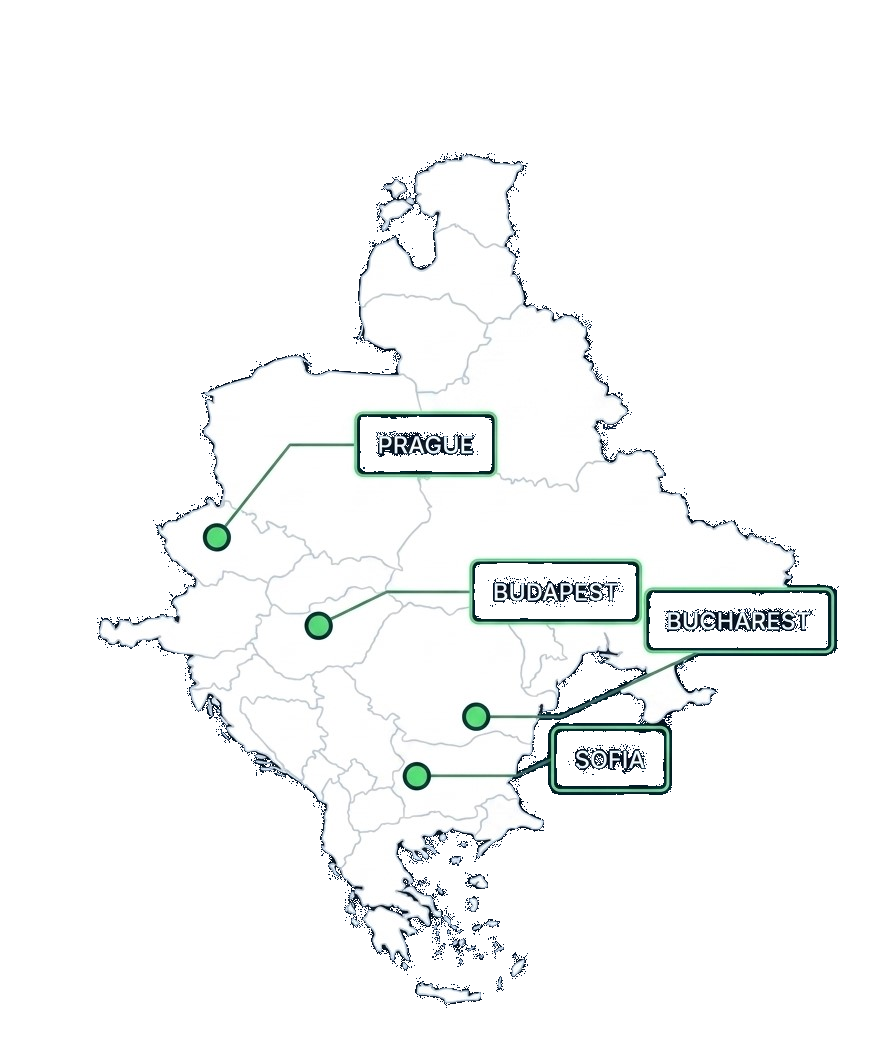
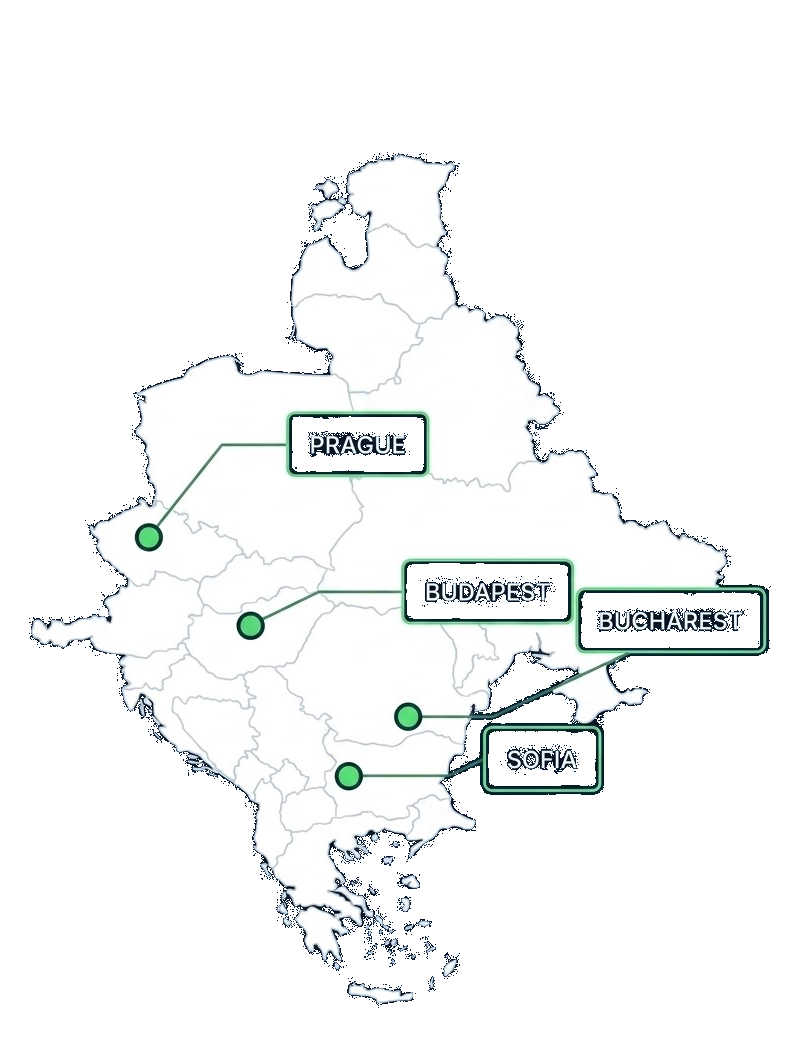
Mobile Version fixes

Changed region(s): [[0.0309, 0.1249, 0.9592, 0.9678], [0.1547, 0.3746, 0.1856, 0.4371], [0.0928, 0.4995, 0.1238, 0.5307]]

diff --git a/app/globals.css b/app/globals.css
@@ -27,12 +27,10 @@ html,body{overflow-x:hidden;width:100%}
 .journey-grid p{font-size:1.06rem;line-height:1.75;color:rgba(255,255,255,.74);max-width:650px}
 .journey-grid h2{font-size:clamp(1.8rem,3.2vw,3.4rem)}
 .map-card {
-  height: 560px;
   position: relative;
   border: none;
   background: none;
-  overflow: visible;
-  transform: translateX(-100px);
+  overflow: hidden;
 }
 .nav a.active{opacity:1}
 .nav a.active:after{right:0}
@@ -200,29 +198,26 @@ body{-webkit-font-smoothing:antialiased;text-rendering:optimizeLegibility}
 .sponsor-logo-grid{display:grid;grid-template-columns:repeat(4,minmax(0,1fr));gap:16px}
 .sponsor-logo-grid-gold{grid-template-columns:minmax(220px,320px)}
 .sponsor-logo-grid>div{
-  min-height: 150px;
-  background: #fff;
-  border: 1px solid rgba(10,35,70,.1);
-  display: flex;
-  align-items: center;
-  justify-content: center;
-  padding: 16px;                      /* Balanced padding for a cleaner border frame */
+  min-height:210px;
+  background:#fff;
+  border:1px solid rgba(10,35,70,.1);
+  display:flex;
+  align-items:center;
+  justify-content:center;
+  padding:20px;
 }
-.sponsor-logo-grid img.logo-larger{
-  width: 100% !important;
-  height: 105px !important;
-}
+.sponsor-logo-grid img.logo-larger,
 .sponsor-logo-grid img{
-  width: 90% !important;
-  height: 90px !important;
-  object-fit: contain !important;
+  width:95% !important;
+  height:150px !important;
+  object-fit:contain !important;
 }
 
 .summit-logo-grid{grid-template-columns:repeat(3,minmax(0,1fr))}
 .summit-sponsors 
 .sponsor-cta{margin-top:28px}
 @media(max-width:950px){.speaker-card-grid{grid-template-columns:repeat(2,minmax(0,1fr))}.sponsor-logo-grid,.summit-logo-grid{grid-template-columns:repeat(2,minmax(0,1fr))}}
-@media(max-width:560px){.speaker-card-grid{gap:12px}.speaker-card-copy{padding:13px}.speaker-card-copy h3{font-size:1rem}.speaker-card-copy p{font-size:.8rem}.speaker-card-copy strong{font-size:.75rem}.testimonial-slider{padding:25px 22px}.testimonial-slider blockquote p{font-size:1.05rem}.sponsor-logo-grid,.summit-logo-grid{grid-template-columns:1fr 1fr}.sponsor-logo-grid>div{min-height:100px;padding:10px}.sponsor-logo-grid img{height:70px}}
+@media(max-width:560px){.speaker-card-grid{gap:12px}.speaker-card-copy{padding:13px}.speaker-card-copy h3{font-size:1rem}.speaker-card-copy p{font-size:.8rem}.speaker-card-copy strong{font-size:.75rem}.testimonial-slider{padding:25px 22px}.testimonial-slider blockquote p{font-size:1.05rem}.sponsor-logo-grid,.summit-logo-grid{grid-template-columns:1fr 1fr}.sponsor-logo-grid>div{min-height:140px;padding:12px}.sponsor-logo-grid img,.sponsor-logo-grid img.logo-larger{width:95% !important;height:105px !important;object-fit:contain !important}}
 
 /* Phase 18 — Insights / Partners / Contact completion */
 .insights-hero{min-height:610px;background:radial-gradient(circle at 80% 20%,rgba(53,185,241,.13),transparent 30%),linear-gradient(135deg,#04162e 0%,#071b3a 68%,#0a3155 100%);color:#fff;position:relative;overflow:hidden}.insights-hero:after{content:"";position:absolute;width:480px;height:480px;border:1px solid rgba(83,239,122,.12);border-radius:50%;right:-150px;bottom:-220px}.insights-hero-content{position:relative;z-index:2;padding-top:205px;padding-bottom:95px}.insights-hero-content h1{max-width:900px}.insights-hero-content>p:not(.eyebrow){max-width:750px;font-size:1.16rem;line-height:1.7;color:rgba(255,255,255,.78)}.insights-explore .shell>h2{max-width:940px}.insight-filters{display:flex;gap:10px;flex-wrap:wrap;margin:42px 0 28px;border-bottom:1px solid var(--line);padding-bottom:16px}.insight-filters button{border:0;background:transparent;padding:8px 12px;font-weight:800;font-size:.78rem;letter-spacing:.1em;color:#65758a;cursor:pointer}.insight-filters button.active{color:#075bde;border-bottom:2px solid #075bde}.editorial-feature{display:grid;grid-template-columns:1.15fr .85fr;background:#f4f7fa;min-height:500px}.editorial-image{position:relative;min-height:500px;overflow:hidden}.editorial-copy{padding:55px;display:flex;flex-direction:column;justify-content:center}.editorial-copy>span,.editorial-grid>article>span{font-size:.72rem;letter-spacing:.12em;text-transform:uppercase;font-weight:900;color:#2676a5}.editorial-copy h3{font-size:clamp(2rem,3.2vw,3.3rem);line-height:1.05;margin:20px 0}.editorial-copy p,.editorial-grid p{color:var(--muted);line-height:1.6}.editorial-copy a,.editorial-grid a{font-weight:900;color:#145d98}.editorial-grid{display:grid;grid-template-columns:repeat(3,1fr);gap:18px;margin-top:22px}.editorial-grid>article{border:1px solid var(--line);background:#fff;padding:0 24px 28px;transition:transform .2s ease,box-shadow .2s ease}.editorial-grid>article:hover{transform:translateY(-4px);box-shadow:0 18px 42px rgba(7,27,53,.08)}.editorial-thumb{height:220px;position:relative;margin:0 -24px 24px;overflow:hidden}.editorial-grid h3{font-size:1.35rem;margin:12px 0}.load-more{text-align:center;margin-top:34px}.load-more button,.partner-expand button{border:1px solid #173f68;background:#fff;color:#0b315a;padding:14px 21px;font-weight:900;cursor:pointer}.insights-newsletter{background:linear-gradient(135deg,#dff5fb,#e7f7f0);padding:90px 0}.newsletter-layout{display:grid;grid-template-columns:1fr .95fr;gap:90px;align-items:center}.newsletter-layout p{color:#506174;line-height:1.65;max-width:660px}.newsletter-form>div{display:flex}.newsletter-form input{flex:1;min-width:0;padding:18px;border:1px solid #9fc7d2;background:#fff}.newsletter-form button{padding:18px 22px;border:0;background:#075bde;color:#fff;font-weight:900}.newsletter-form small{display:block;color:#67798b;line-height:1.5;margin-top:12px}
@@ -293,7 +288,18 @@ body{overflow-x:hidden}.menu-open{overflow:hidden}.premium-reveal{opacity:0;tran
 .mobile-menu-toggle{display:none;position:relative;z-index:102;border:1px solid rgba(255,255,255,.3);background:rgba(255,255,255,.05);width:48px;height:48px;border-radius:50%;align-items:center;justify-content:center;padding:0;cursor:pointer}.mobile-menu-toggle span{position:absolute;width:20px;height:1.5px;background:#fff;transition:transform .3s var(--ease-premium),top .3s}.mobile-menu-toggle span:first-child{top:19px}.mobile-menu-toggle span:last-child{top:27px}.menu-is-open .mobile-menu-toggle span:first-child{top:23px;transform:rotate(45deg)}.menu-is-open .mobile-menu-toggle span:last-child{top:23px;transform:rotate(-45deg)}
 .mobile-nav-panel{display:none}
 @media(max-width:1050px){
-  .site-header{grid-template-columns:1fr auto auto}
+  .site-header{
+    grid-template-columns:1fr auto auto;
+    z-index:101;
+  }
+
+  .site-header.menu-is-open{
+    background:transparent;
+  }
+
+  .mobile-menu-toggle{
+    z-index:102;
+  }
   .desktop-nav{display:none}
   .mobile-menu-toggle{display:flex}
   .mobile-nav-panel{
@@ -567,4 +573,11 @@ body{overflow-x:hidden}.menu-open{overflow:hidden}.premium-reveal{opacity:0;tran
 @media(max-width:720px){
   .journey-grid .map-card{height:380px}
   .partnership-form>section h2,.premium-registration>section h2{font-size:clamp(1.85rem,8.8vw,2.5rem)!important}
+}
+/* Summit speaker note — prevent mobile overlap */
+@media (max-width: 720px) {
+  .summit-speaker-note {
+    margin-top: 24px;
+    margin-bottom: 36px;
+  }
 }

diff --git a/app/partners/page.tsx b/app/partners/page.tsx
@@ -20,9 +20,9 @@ export default function Partners(){return <main className="inner-page partners-p
   </section>
 
   <section className="section-light" id="partnership-options"><div className="shell"><p className="eyebrow dark">Beyond Our Flagship Events</p><h2>Different Formats for Different Objectives.</h2><p className="section-intro-copy">Banking CEE partnerships extend beyond the flagship events, creating opportunities for more targeted engagement with the regional banking community.</p><div className="partner-format-list">
-    <article><div className="partner-format-copy"><span>01 — FLAGSHIP EVENTS</span><h3>Banking CEE Expo &amp; Digital Banking CEE Summit</h3><ul><li>Thought leadership and speaking opportunities</li><li>Exhibition and brand visibility</li><li>1:1 meetings and networking</li><li>Regional engagement across the Banking CEE community</li></ul><p><strong>Great for:</strong> organisations looking for broader visibility, thought leadership and access to banking decision-makers across CEE.</p><a href="#flagship">Explore Flagship Events →</a></div><div className="partner-format-image"><Image src="/images/partner-event.webp" alt="Flagship event partnership" fill className="cover"/></div></article>
+    <article><div className="partner-format-copy"><span>01 — FLAGSHIP EVENTS</span><h3>Banking CEE Expo &amp; Digital Banking CEE Summit</h3><ul><li>Thought leadership and speaking opportunities</li><li>Exhibition and brand visibility</li><li>1:1 meetings and networking</li><li>Regional engagement across the Banking CEE community</li></ul><p><strong>Great for:</strong> organisations looking for broader visibility, thought leadership and access to banking decision-makers across CEE.</p><a href="#flagship">Explore Flagship Events →</a></div><div className="partner-format-image"><Image src="/images/partner-events1.webp" alt="Flagship event partnership" fill className="cover"/></div></article>
     <article><div className="partner-format-copy"><span>02 — TAILORED EVENTS</span><h3>Your Audience. Your Topic. Your Event.</h3><ul><li>20–30 pre-qualified industry attendees</li><li>Premium dinner or roundtable formats</li><li>Dedicated topic and audience</li><li>Direct engagement in a focused environment</li></ul><p><strong>Great for:</strong> organisations looking for high-touch engagement with selected decision-makers around a specific topic, market or business objective.</p><a href="/partnership-enquiry?interest=tailored&source=partners-formats">Explore Tailored Events →</a></div><div className="partner-format-image"><Image src="/images/partner-tailored-event.webp" alt="Tailored Banking CEE event" fill className="cover"/></div></article>
-    <article><div className="partner-format-copy"><span>03 — WEBINARS</span><h3>Take the Conversation Online.</h3><ul><li>Targeted topic and audience</li><li>Banking and industry perspectives</li><li>Interactive online discussion</li><li>Regional reach beyond physical events</li></ul><p><strong>Great for:</strong> organisations looking to showcase expertise, introduce new ideas or build thought leadership around a specific banking topic.</p><a href="/partnership-enquiry?interest=tailored&source=partners-formats">Explore Webinars →</a></div><div className="partner-format-image"><Image src="/images/partner-webinar.webp" alt="Banking CEE thought leadership" fill className="cover"/></div></article>
+    <article><div className="partner-format-copy"><span>03 — WEBINARS</span><h3>Take the Conversation Online.</h3><ul><li>Targeted topic and audience</li><li>Banking and industry perspectives</li><li>Interactive online discussion</li><li>Regional reach beyond physical events</li></ul><p><strong>Great for:</strong> organisations looking to showcase expertise, introduce new ideas or build thought leadership around a specific banking topic.</p><a href="/partnership-enquiry?interest=tailored&source=partners-formats">Explore Webinars →</a></div><div className="partner-format-image"><Image src="/images/partner-webinar1.webp" alt="Banking CEE thought leadership" fill className="cover"/></div></article>
   </div></div></section>
 
   <section className="section-white technology-proof"><div className="shell"><div className="partner-intro"><div><p className="eyebrow dark">Technology Partners Across CEE</p><h2>Trusted by Technology Companies Across the Banking CEE Network.</h2></div><p>Our partner community includes established international technology providers and specialist firms that have engaged with Banking CEE through previous events and partnership formats.</p></div><div className="trusted-partners"><PartnerLogoGrid/></div></div></section>

diff --git a/app/api/newsletter/route.ts b/app/api/newsletter/route.ts
@@ -1,7 +1,59 @@
-import {NextResponse} from 'next/server';
-import {supabase} from '../../../lib/supabase';
-export const runtime='nodejs';
-export async function POST(req:Request){try{const b=await req.json();const email=String(b.email||'').trim().toLowerCase();if(!/^\S+@\S+\.\S+$/.test(email))return NextResponse.json({error:'Please enter a valid email address.'},{status:400});if(b.consent!=='accepted')return NextResponse.json({error:'Please confirm that you would like to receive Banking CEE communications.'},{status:400});const payload={form_type:'newsletter_signup',business_email:email,first_name:b.firstName?String(b.firstName).trim():null,source:b.source||'website',source_page:b.sourcePage||'/insights',utm_source:b.utmSource||null,utm_medium:b.utmMedium||null,utm_campaign:b.utmCampaign||null,referrer:b.referrer||null,consent_marketing:true,consent_timestamp:new Date().toISOString(),submitted_at:new Date().toISOString()};
- // Preferred capture boundary: persist in Supabase first, then let Make/Airtable/Zoho own nurture.
- const table=process.env.NEWSLETTER_TABLE||'newsletter_signups';const {error}=await supabase.from(table).insert(payload);if(error){if(process.env.MAKE_NEWSLETTER_WEBHOOK_URL){const hook=await fetch(process.env.MAKE_NEWSLETTER_WEBHOOK_URL,{method:'POST',headers:{'Content-Type':'application/json'},body:JSON.stringify(payload)});if(!hook.ok)throw new Error(`Newsletter capture failed: ${error.message}; Make returned ${hook.status}`)}else throw error}else if(process.env.MAKE_NEWSLETTER_WEBHOOK_URL){await fetch(process.env.MAKE_NEWSLETTER_WEBHOOK_URL,{method:'POST',headers:{'Content-Type':'application/json'},body:JSON.stringify(payload)}).catch(()=>undefined)}
- return NextResponse.json({ok:true,message:'You are now subscribed to Banking CEE updates.'})}catch(e){console.error(e);return NextResponse.json({error:'We could not subscribe you right now. Please try again.'},{status:500})}}
+import { NextResponse } from 'next/server';
+import { supabase } from '../../../lib/supabase';
+
+export const runtime = 'nodejs';
+
+export async function POST(req: Request) {
+  try {
+    const body = await req.json();
+
+    const email = String(body.email || '')
+      .trim()
+      .toLowerCase();
+
+    if (!/^\S+@\S+\.\S+$/.test(email)) {
+      return NextResponse.json(
+        { error: 'Please enter a valid email address.' },
+        { status: 400 }
+      );
+    }
+
+    if (body.consent !== 'accepted') {
+      return NextResponse.json(
+        {
+          error:
+            'Please confirm that you would like to receive Banking CEE communications.',
+        },
+        { status: 400 }
+      );
+    }
+
+    const { error } = await supabase
+      .from('subscriptions')
+      .upsert(
+        { email },
+        { onConflict: 'email' }
+      );
+
+    if (error) {
+      console.error('Newsletter subscription error:', error);
+
+      return NextResponse.json(
+        { error: 'We could not subscribe you right now. Please try again.' },
+        { status: 500 }
+      );
+    }
+
+    return NextResponse.json({
+      ok: true,
+      message: 'You are now subscribed to Banking CEE updates.',
+    });
+  } catch (error) {
+    console.error(error);
+
+    return NextResponse.json(
+      { error: 'We could not subscribe you right now. Please try again.' },
+      { status: 500 }
+    );
+  }
+}

diff --git a/app/summit/page.tsx b/app/summit/page.tsx
@@ -130,12 +130,12 @@ export default async function SummitPage() {
           <p className="sponsor-history-note">2026 Sponsors</p>
           <p className="sponsor-tier-label">Silver Sponsors</p>
           <div className="sponsor-logo-grid summit-logo-grid">
-            <div><img src={summitLogos[8243]} alt="Evrotrust" width={240} height={140} /></div>
-            <div><img src={summitLogos[8878]} alt="ERI" width={240} height={140} /></div>
-            <div><img src={summitLogos[2050]} alt="Salesforce" width={240} height={140} /></div>
-            <div><img src={summitLogos[7356]} alt="Authologic" width={240} height={140} /></div>
-            <div><img src={summitLogos[8127]} alt="fme" width={240} height={140} /></div>
-            <div><img src={summitLogos[823]} alt="OneSpan" width={240} height={140} /></div>
+            <div><img src={summitLogos[8243]} alt="Evrotrust" width={300} height={170} /></div>
+            <div><img src={summitLogos[8878]} alt="ERI" width={300} height={170} /></div>
+            <div><img src={summitLogos[2050]} alt="Salesforce" width={300} height={170} /></div>
+            <div><img src={summitLogos[7356]} alt="Authologic" width={300} height={170} /></div>
+            <div><img src={summitLogos[8127]} alt="fme" width={300} height={170} /></div>
+            <div><img src={summitLogos[823]} alt="OneSpan" width={300} height={170} /></div>
           </div>
           <div className="sponsor-cta"><a className="btn summit-dark-btn" href="/partnership-enquiry?event=summit-2027&source=summit-sponsors">Explore Partnership Opportunities</a></div>
         </div>

diff --git a/app/expo/page.tsx b/app/expo/page.tsx
@@ -178,8 +178,8 @@ export default async function ExpoPage() {
                         <img
                           src={sponsor.logo}
                           alt={sponsor.company_name}
-                          width={isGold ? 300 : 240}
-                          height={isGold ? 170 : 140}
+                          width={300}
+                          height={170}
                         />
                       </div>
                     ))}
